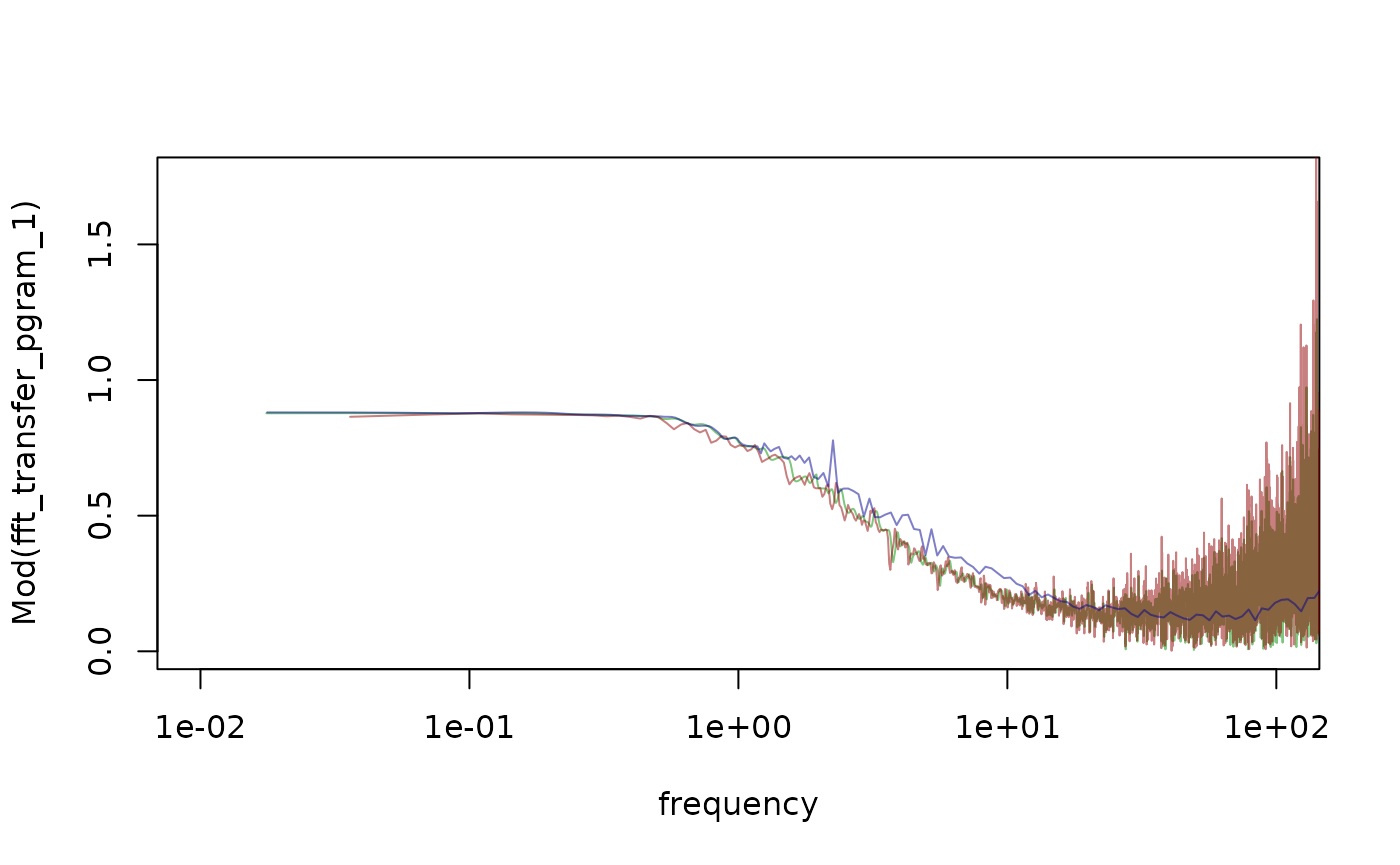
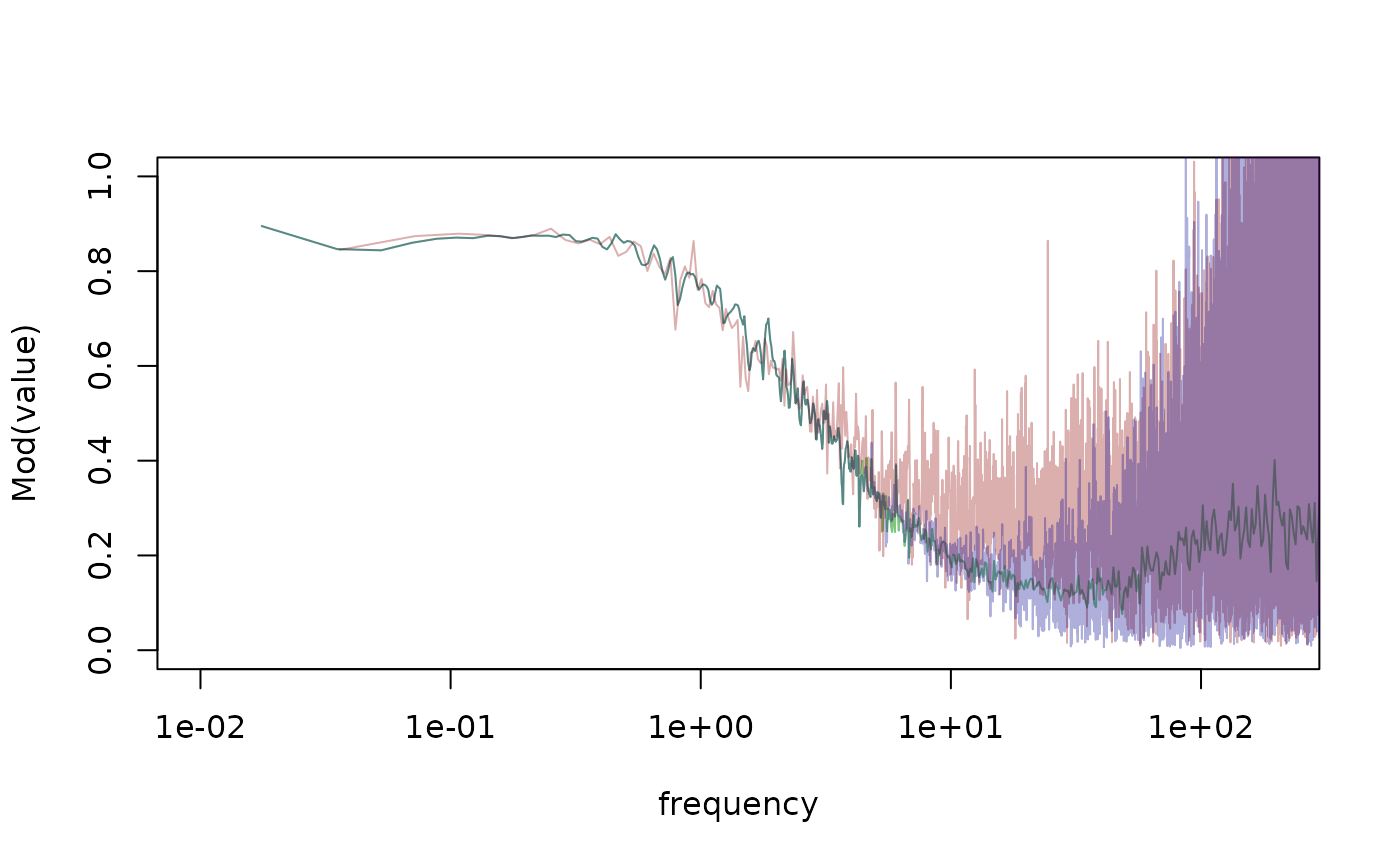
update barometric pressure vignette

diff --git a/docs/articles/barometric_pressure.html b/docs/articles/barometric_pressure.html
@@ -93,13 +93,13 @@
 <span></span>
 <span><span class="co"># The barometric efficiency is stored in the step (warning: this may change)</span></span>
 <span><span class="va">clarks</span><span class="op">$</span><span class="fu">get_step_data</span><span class="op">(</span><span class="st">"barometric_efficiency"</span><span class="op">)</span></span>
-<span><span class="co">#&gt; $baro_clark_UUEdL</span></span>
+<span><span class="co">#&gt; [[1]]</span></span>
 <span><span class="co">#&gt; [1] 0.1941766</span></span>
 <span><span class="co">#&gt; </span></span>
-<span><span class="co">#&gt; $baro_clark_ieexo</span></span>
+<span><span class="co">#&gt; [[2]]</span></span>
 <span><span class="co">#&gt; [1] 0.4738098</span></span>
 <span><span class="co">#&gt; </span></span>
-<span><span class="co">#&gt; $baro_clark_mb92Q</span></span>
+<span><span class="co">#&gt; [[3]]</span></span>
 <span><span class="co">#&gt; [1] 0.8453437</span></span></code></pre></div>
 <div class="sourceCode" id="cb3"><pre class="downlit sourceCode r">
 <code class="sourceCode R"><span><span class="va">least_squares</span> <span class="op">&lt;-</span> <span class="fu"><a href="../reference/recipe.html">recipe</a></span><span class="op">(</span><span class="va">wl</span><span class="op">~</span><span class="va">.</span>, <span class="va">kennel_2020</span><span class="op">)</span> <span class="op">|&gt;</span></span>
@@ -111,10 +111,10 @@
 <span>  <span class="fu"><a href="../reference/bake.html">bake</a></span><span class="op">(</span><span class="op">)</span></span>
 <span></span>
 <span><span class="va">least_squares</span><span class="op">$</span><span class="fu">get_step_data</span><span class="op">(</span><span class="st">"barometric_efficiency"</span><span class="op">)</span></span>
-<span><span class="co">#&gt; $baro_least_squares_8HfdV</span></span>
+<span><span class="co">#&gt; [[1]]</span></span>
 <span><span class="co">#&gt; [1] 0.8273019</span></span>
 <span><span class="co">#&gt; </span></span>
-<span><span class="co">#&gt; $baro_least_squares_HIyvQ</span></span>
+<span><span class="co">#&gt; [[2]]</span></span>
 <span><span class="co">#&gt; [1] 0.8410913</span></span></code></pre></div>
 </div>
 <div class="section level4">
@@ -149,7 +149,7 @@
 <span>     <span class="op">)</span></span>
 <span><span class="fu"><a href="https://rdrr.io/r/graphics/points.html" class="external-link">points</a></span><span class="op">(</span><span class="va">value</span><span class="op">~</span><span class="va">x</span>, <span class="va">resp_dl</span><span class="op">[</span><span class="va">resp_dl</span><span class="op">$</span><span class="va">term</span> <span class="op">==</span> <span class="st">"distributed_lag_interpolated"</span> <span class="op">&amp;</span> <span class="va">resp_dl</span><span class="op">$</span><span class="va">variable</span> <span class="op">==</span> <span class="st">"cumulative"</span>, <span class="op">]</span>,</span>
 <span>       type <span class="op">=</span> <span class="st">"l"</span>, col <span class="op">=</span> <span class="st">"red"</span><span class="op">)</span></span></code></pre></div>
-<p><img src="barometric_pressure_files/figure-html/distlag-1.png" width="700"></p>
+<p><img src="barometric_pressure_files/figure-html/distlag-1.png" alt="Barometric response functions with standard leading and lagging method compared to the distributed lag method.  Both methods are generally the same but the distributed lag method is smoother." width="700"></p>
 </div>
 </div>
 <div class="section level3">
@@ -171,17 +171,17 @@ conditions).</p>
 <span>  <span class="fu"><a href="../reference/bake.html">bake</a></span><span class="op">(</span><span class="op">)</span></span>
 <span></span>
 <span><span class="va">harmonic</span><span class="op">$</span><span class="fu">get_step_data</span><span class="op">(</span><span class="st">"barometric_efficiency"</span><span class="op">)</span></span>
-<span><span class="co">#&gt; $baro_harmonic_l1OPb</span></span>
-<span><span class="co">#&gt; $baro_harmonic_l1OPb$ratio</span></span>
+<span><span class="co">#&gt; [[1]]</span></span>
+<span><span class="co">#&gt; [[1]]$ratio</span></span>
 <span><span class="co">#&gt; [1] 0.5725228</span></span>
 <span><span class="co">#&gt; </span></span>
-<span><span class="co">#&gt; $baro_harmonic_l1OPb$acworth</span></span>
+<span><span class="co">#&gt; [[1]]$acworth</span></span>
 <span><span class="co">#&gt; [1] 0.5940213</span></span>
 <span><span class="co">#&gt; </span></span>
-<span><span class="co">#&gt; $baro_harmonic_l1OPb$rau</span></span>
+<span><span class="co">#&gt; [[1]]$rau</span></span>
 <span><span class="co">#&gt; [1] 0.6108032</span></span>
 <span><span class="co">#&gt; </span></span>
-<span><span class="co">#&gt; $baro_harmonic_l1OPb$tf</span></span>
+<span><span class="co">#&gt; [[1]]$tf</span></span>
 <span><span class="co">#&gt; [1] 0.5844761</span></span></code></pre></div>
 </div>
 <div class="section level4">
@@ -210,105 +210,61 @@ conditions).</p>
 </ul>
 <div class="sourceCode" id="cb7"><pre class="downlit sourceCode r">
 <code class="sourceCode R"><span></span>
-<span><span class="va">form</span> <span class="op">&lt;-</span> <span class="fu"><a href="https://rdrr.io/r/stats/formula.html" class="external-link">as.formula</a></span><span class="op">(</span><span class="st">"wl~."</span><span class="op">)</span></span>
+<span><span class="fu"><a href="https://rdrr.io/r/utils/data.html" class="external-link">data</a></span><span class="op">(</span><span class="va">kennel_2020</span><span class="op">)</span></span>
+<span><span class="va">formula</span> <span class="op">&lt;-</span> <span class="fu"><a href="https://rdrr.io/r/stats/formula.html" class="external-link">as.formula</a></span><span class="op">(</span><span class="va">datetime</span><span class="op">~</span><span class="va">baro</span><span class="op">+</span><span class="va">wl</span><span class="op">+</span><span class="va">et</span><span class="op">)</span></span>
+<span><span class="va">formula_1</span> <span class="op">&lt;-</span> <span class="fu"><a href="https://rdrr.io/r/stats/formula.html" class="external-link">as.formula</a></span><span class="op">(</span><span class="va">wl</span><span class="op">~</span><span class="va">baro</span> <span class="op">+</span> <span class="va">et</span><span class="op">)</span></span>
 <span></span>
-<span><span class="va">pgram</span> <span class="op">&lt;-</span> <span class="fu"><a href="../reference/recipe.html">recipe</a></span><span class="op">(</span><span class="va">form</span>, <span class="va">kennel_2020</span><span class="op">)</span> <span class="op">|&gt;</span></span>
-<span>  <span class="fu"><a href="../reference/step_fft_transfer_pgram.html">step_fft_transfer_pgram</a></span><span class="op">(</span><span class="fu"><a href="https://rdrr.io/r/base/c.html" class="external-link">c</a></span><span class="op">(</span><span class="va">wl</span>, <span class="va">baro</span>, <span class="va">et</span><span class="op">)</span>, spans <span class="op">=</span> <span class="fu"><a href="https://rdrr.io/r/base/c.html" class="external-link">c</a></span><span class="op">(</span><span class="fl">3</span>, <span class="fl">5</span>, <span class="fl">7</span><span class="op">)</span>, taper <span class="op">=</span> <span class="fl">0.4</span>,</span>
-<span>                          time_step <span class="op">=</span> <span class="fl">60</span><span class="op">)</span> <span class="op">|&gt;</span></span>
-<span>  <span class="fu"><a href="../reference/prep.html">prep</a></span><span class="op">(</span><span class="op">)</span> <span class="op">|&gt;</span></span>
-<span>  <span class="fu"><a href="../reference/bake.html">bake</a></span><span class="op">(</span><span class="op">)</span></span>
-<span></span>
-<span><span class="va">pg</span> <span class="op">&lt;-</span> <span class="fu"><a href="https://rdrr.io/r/base/as.data.frame.html" class="external-link">as.data.frame</a></span><span class="op">(</span><span class="va">pgram</span><span class="op">$</span><span class="fu">get_step_data</span><span class="op">(</span><span class="st">"fft_result"</span><span class="op">)</span><span class="op">[[</span><span class="fl">1</span><span class="op">]</span><span class="op">]</span><span class="op">)</span></span>
-<span></span>
-<span></span>
-<span></span>
-<span><span class="va">welch</span> <span class="op">&lt;-</span> <span class="fu"><a href="../reference/recipe.html">recipe</a></span><span class="op">(</span><span class="va">form</span>, <span class="va">kennel_2020</span><span class="op">)</span> <span class="op">|&gt;</span></span>
-<span>  <span class="fu"><a href="../reference/step_fft_transfer_welch.html">step_fft_transfer_welch</a></span><span class="op">(</span><span class="fu"><a href="https://rdrr.io/r/base/c.html" class="external-link">c</a></span><span class="op">(</span><span class="va">wl</span>, <span class="va">baro</span>, <span class="va">et</span><span class="op">)</span>,</span>
+<span><span class="va">pg</span> <span class="op">=</span> <span class="fu"><a href="../reference/recipe.html">recipe</a></span><span class="op">(</span>formula <span class="op">=</span> <span class="va">formula</span>, data <span class="op">=</span> <span class="va">kennel_2020</span><span class="op">)</span> <span class="op">|&gt;</span></span>
+<span>  <span class="fu"><a href="../reference/step_fft_transfer_welch.html">step_fft_transfer_welch</a></span><span class="op">(</span>formula <span class="op">=</span> <span class="va">formula_1</span>, </span>
 <span>                          length_subset <span class="op">=</span> <span class="fl">40000</span>,</span>
-<span>                          overlap <span class="op">=</span> <span class="fl">0.97</span>,</span>
-<span>                          window <span class="op">=</span> <span class="fu">window_nuttall</span><span class="op">(</span><span class="fl">40000</span><span class="op">)</span>, </span>
+<span>                          window <span class="op">=</span> <span class="fu">hydrorecipes</span><span class="fu">:::</span><span class="fu">window_rectangle</span><span class="op">(</span><span class="fl">40000</span><span class="op">)</span>,</span>
 <span>                          time_step <span class="op">=</span> <span class="fl">60</span><span class="op">)</span> <span class="op">|&gt;</span></span>
-<span>  <span class="fu"><a href="../reference/prep.html">prep</a></span><span class="op">(</span><span class="op">)</span> <span class="op">|&gt;</span></span>
+<span>  <span class="fu"><a href="../reference/step_fft_transfer_pgram.html">step_fft_transfer_pgram</a></span><span class="op">(</span>formula <span class="op">=</span> <span class="va">formula_1</span>, </span>
+<span>                          spans <span class="op">=</span> <span class="fu"><a href="https://rdrr.io/r/base/c.html" class="external-link">c</a></span><span class="op">(</span><span class="fl">3</span>, <span class="fl">3</span><span class="op">)</span>, </span>
+<span>                          time_step <span class="op">=</span> <span class="fl">60</span><span class="op">)</span> <span class="op">|&gt;</span></span>
+<span>  <span class="fu"><a href="../reference/step_fft_transfer_experimental.html">step_fft_transfer_experimental</a></span><span class="op">(</span>formula <span class="op">=</span> <span class="va">formula_1</span>, </span>
+<span>                                 n_groups <span class="op">=</span> <span class="fl">600</span>,</span>
+<span>                                 spans <span class="op">=</span> <span class="fu"><a href="https://rdrr.io/r/base/c.html" class="external-link">c</a></span><span class="op">(</span><span class="fl">3</span>, <span class="fl">3</span><span class="op">)</span>, </span>
+<span>                                 time_step <span class="op">=</span> <span class="fl">60</span><span class="op">)</span> <span class="op">|&gt;</span></span>
+<span>  <span class="fu"><a href="../reference/prep.html">prep</a></span><span class="op">(</span><span class="st">"df"</span><span class="op">)</span> <span class="op">|&gt;</span></span>
 <span>  <span class="fu"><a href="../reference/bake.html">bake</a></span><span class="op">(</span><span class="op">)</span></span>
 <span></span>
-<span><span class="va">we</span> <span class="op">&lt;-</span> <span class="fu"><a href="https://rdrr.io/r/base/as.data.frame.html" class="external-link">as.data.frame</a></span><span class="op">(</span><span class="va">welch</span><span class="op">$</span><span class="fu">get_step_data</span><span class="op">(</span><span class="st">"fft_result"</span><span class="op">)</span><span class="op">[[</span><span class="fl">1</span><span class="op">]</span><span class="op">]</span><span class="op">)</span></span>
+<span><span class="va">pg</span><span class="op">$</span><span class="fu">get_elapsed_times</span><span class="op">(</span><span class="op">)</span></span>
+<span><span class="co">#&gt;                           step_id    time_prep    time_bake</span></span>
+<span><span class="co">#&gt; 1                  add_vars_LGGmr 4.744530e-05 0.0000140667</span></span>
+<span><span class="co">#&gt; 2        fft_transfer_welch_Fe2kG 3.314018e-05 0.0158770084</span></span>
+<span><span class="co">#&gt; 3        fft_transfer_pgram_JgwxH 1.668930e-05 0.0110201836</span></span>
+<span><span class="co">#&gt; 4 fft_transfer_experimental_hiYO6 1.549721e-05 0.0238265991</span></span>
+<span><span class="va">tf</span> <span class="op">&lt;-</span> <span class="va">pg</span><span class="op">$</span><span class="fu">get_transfer_data</span><span class="op">(</span>type <span class="op">=</span> <span class="st">"dt"</span><span class="op">)</span></span>
 <span></span>
-<span><span class="va">form</span> <span class="op">&lt;-</span> <span class="fu"><a href="https://rdrr.io/r/stats/formula.html" class="external-link">as.formula</a></span><span class="op">(</span><span class="st">"wl~."</span><span class="op">)</span></span>
-<span></span>
-<span><span class="va">pgram_experimental</span> <span class="op">&lt;-</span> <span class="fu"><a href="../reference/recipe.html">recipe</a></span><span class="op">(</span><span class="va">form</span>, <span class="va">kennel_2020</span><span class="op">)</span> <span class="op">|&gt;</span></span>
-<span>  <span class="fu"><a href="../reference/step_fft_transfer_experimental.html">step_fft_transfer_experimental</a></span><span class="op">(</span><span class="fu"><a href="https://rdrr.io/r/base/c.html" class="external-link">c</a></span><span class="op">(</span><span class="va">wl</span>, <span class="va">baro</span>, <span class="va">et</span><span class="op">)</span>, </span>
-<span>                                 spans <span class="op">=</span> <span class="fu"><a href="https://rdrr.io/r/base/c.html" class="external-link">c</a></span><span class="op">(</span><span class="fl">3</span>, <span class="fl">5</span>, <span class="fl">7</span><span class="op">)</span>, </span>
-<span>                                 taper <span class="op">=</span> <span class="fl">0.45</span>,</span>
-<span>                                 <span class="co"># power = 3,</span></span>
-<span>                                 n_groups <span class="op">=</span> <span class="fl">201</span>,</span>
-<span>                          time_step <span class="op">=</span> <span class="fl">60</span><span class="op">)</span> <span class="op">|&gt;</span></span>
-<span>  <span class="fu"><a href="../reference/prep.html">prep</a></span><span class="op">(</span><span class="op">)</span> <span class="op">|&gt;</span></span>
-<span>  <span class="fu"><a href="../reference/bake.html">bake</a></span><span class="op">(</span><span class="op">)</span></span>
-<span></span>
-<span><span class="va">experimental</span> <span class="op">&lt;-</span> <span class="fu"><a href="https://rdrr.io/r/base/as.data.frame.html" class="external-link">as.data.frame</a></span><span class="op">(</span><span class="va">pgram_experimental</span><span class="op">$</span><span class="fu">get_step_data</span><span class="op">(</span><span class="st">"fft_result"</span><span class="op">)</span><span class="op">[[</span><span class="fl">1</span><span class="op">]</span><span class="op">]</span><span class="op">)</span></span>
-<span></span>
-<span></span>
-<span><span class="fu"><a href="https://rdrr.io/r/graphics/plot.default.html" class="external-link">plot</a></span><span class="op">(</span><span class="fu"><a href="https://rdrr.io/r/base/complex.html" class="external-link">Mod</a></span><span class="op">(</span><span class="va">fft_transfer_pgram_1</span><span class="op">)</span><span class="op">~</span><span class="va">frequency</span>, <span class="va">pg</span>, type <span class="op">=</span> <span class="st">"l"</span>, log <span class="op">=</span> <span class="st">"x"</span>, xlim <span class="op">=</span> <span class="fu"><a href="https://rdrr.io/r/base/c.html" class="external-link">c</a></span><span class="op">(</span><span class="fl">0.01</span>, <span class="fl">100</span><span class="op">)</span>,</span>
+<span><span class="fu"><a href="https://rdrr.io/r/graphics/plot.default.html" class="external-link">plot</a></span><span class="op">(</span><span class="fu"><a href="https://rdrr.io/r/base/complex.html" class="external-link">Mod</a></span><span class="op">(</span><span class="va">value</span><span class="op">)</span><span class="op">~</span><span class="va">frequency</span>, </span>
+<span>     data <span class="op">=</span> <span class="va">tf</span><span class="op">[</span><span class="fu"><a href="https://rdrr.io/r/base/grep.html" class="external-link">grepl</a></span><span class="op">(</span><span class="st">"fft_transfer_experimental"</span>, <span class="va">id</span><span class="op">)</span> <span class="op">&amp;</span> <span class="va">variable</span> <span class="op">==</span> <span class="st">"wl_baro_et_1"</span><span class="op">]</span>, </span>
+<span>     type <span class="op">=</span> <span class="st">"l"</span>, </span>
+<span>     log <span class="op">=</span> <span class="st">"x"</span>, </span>
+<span>     xlim <span class="op">=</span> <span class="fu"><a href="https://rdrr.io/r/base/c.html" class="external-link">c</a></span><span class="op">(</span><span class="fl">0.01</span>, <span class="fl">200</span><span class="op">)</span>,</span>
+<span>     ylim <span class="op">=</span> <span class="fu"><a href="https://rdrr.io/r/base/c.html" class="external-link">c</a></span><span class="op">(</span><span class="fl">0</span>, <span class="fl">1</span><span class="op">)</span>,</span>
 <span>     col <span class="op">=</span> <span class="st">"#00900080"</span><span class="op">)</span></span>
 <span><span class="co">#&gt; Warning in xy.coords(x, y, xlabel, ylabel, log): 1 x value &lt;= 0 omitted from</span></span>
 <span><span class="co">#&gt; logarithmic plot</span></span>
-<span><span class="fu"><a href="https://rdrr.io/r/graphics/points.html" class="external-link">points</a></span><span class="op">(</span><span class="fu"><a href="https://rdrr.io/r/base/complex.html" class="external-link">Mod</a></span><span class="op">(</span><span class="va">transfer_welch_1</span><span class="op">)</span><span class="op">~</span><span class="va">frequency</span>, <span class="va">we</span>, type <span class="op">=</span> <span class="st">"l"</span>,</span>
-<span>       col <span class="op">=</span> <span class="st">"#90000080"</span><span class="op">)</span></span>
-<span><span class="fu"><a href="https://rdrr.io/r/graphics/points.html" class="external-link">points</a></span><span class="op">(</span><span class="fu"><a href="https://rdrr.io/r/base/complex.html" class="external-link">Mod</a></span><span class="op">(</span><span class="va">fft_transfer_experimental_1</span><span class="op">)</span><span class="op">~</span><span class="va">frequency</span>, <span class="va">experimental</span>, type <span class="op">=</span> <span class="st">"l"</span>, </span>
-<span>       col <span class="op">=</span> <span class="st">"#00009080"</span><span class="op">)</span></span></code></pre></div>
-<p><img src="barometric_pressure_files/figure-html/tf-1.png" width="700"></p>
-<div class="sourceCode" id="cb8"><pre class="downlit sourceCode r">
-<code class="sourceCode R"><span></span>
-<span><span class="fu">hydrorecipes</span><span class="fu">:::</span><span class="fu">group_frequency</span><span class="op">(</span><span class="va">we</span><span class="op">$</span><span class="va">frequency</span>, <span class="fl">201</span><span class="op">)</span></span>
-<span><span class="co">#&gt;   [1]    0.000    0.036    0.072    0.108    0.144    0.180    0.216    0.252</span></span>
-<span><span class="co">#&gt;   [9]    0.288    0.324    0.360    0.396    0.432    0.468    0.504    0.540</span></span>
-<span><span class="co">#&gt;  [17]    0.576    0.612    0.648    0.684    0.720    0.756    0.792    0.828</span></span>
-<span><span class="co">#&gt;  [25]    0.864    0.900    0.936    0.972    1.008    1.044    1.080    1.116</span></span>
-<span><span class="co">#&gt;  [33]    1.152    1.188    1.224    1.260    1.296    1.332    1.368    1.404</span></span>
-<span><span class="co">#&gt;  [41]    1.440    1.476    1.512    1.548    1.584    1.620    1.656    1.692</span></span>
-<span><span class="co">#&gt;  [49]    1.728    1.764    1.800    1.836    1.872    1.908    1.944    1.980</span></span>
-<span><span class="co">#&gt;  [57]    2.016    2.052    2.088    2.124    2.160    2.196    2.250    2.322</span></span>
-<span><span class="co">#&gt;  [65]    2.394    2.466    2.538    2.610    2.682    2.754    2.826    2.898</span></span>
-<span><span class="co">#&gt;  [73]    2.970    3.060    3.168    3.276    3.384    3.492    3.600    3.726</span></span>
-<span><span class="co">#&gt;  [81]    3.870    4.014    4.158    4.302    4.464    4.644    4.824    5.022</span></span>
-<span><span class="co">#&gt;  [89]    5.238    5.454    5.670    5.904    6.156    6.408    6.678    6.984</span></span>
-<span><span class="co">#&gt;  [97]    7.308    7.632    7.974    8.334    8.712    9.108    9.522    9.972</span></span>
-<span><span class="co">#&gt; [105]   10.458   10.962   11.484   12.042   12.618   13.230   13.878   14.562</span></span>
-<span><span class="co">#&gt; [113]   15.282   16.038   16.848   17.694   18.576   19.512   20.502   21.546</span></span>
-<span><span class="co">#&gt; [121]   22.644   23.814   25.038   26.316   27.684   29.124   30.636   32.238</span></span>
-<span><span class="co">#&gt; [129]   33.930   35.694   37.566   39.546   41.616   43.812   46.134   48.564</span></span>
-<span><span class="co">#&gt; [137]   51.120   53.838   56.700   59.706   62.892   66.240   69.768   73.494</span></span>
-<span><span class="co">#&gt; [145]   77.418   81.558   85.932   90.540   95.382  100.494  105.894  111.600</span></span>
-<span><span class="co">#&gt; [153]  117.612  123.930  130.590  137.628  145.044  152.856  161.118  169.812</span></span>
-<span><span class="co">#&gt; [161]  178.974  188.658  198.828  209.538  220.842  232.758  245.322  258.570</span></span>
-<span><span class="co">#&gt; [169]  272.538  287.262  302.796  319.176  336.456  354.690  373.914  394.164</span></span>
-<span><span class="co">#&gt; [177]  415.530  438.066  461.826  486.882  513.288  541.152  570.528  601.488</span></span>
-<span><span class="co">#&gt; [185]  634.158  668.610  704.934  743.238  783.612  826.182  871.074  918.414</span></span>
-<span><span class="co">#&gt; [193]  968.346 1020.996 1076.508 1135.044 1196.766 1261.836 1330.452 1402.812</span></span>
-<span><span class="co">#&gt; [201] 1439.964</span></span>
-<span></span>
-<span><span class="fu"><a href="https://rdrr.io/r/graphics/plot.default.html" class="external-link">plot</a></span><span class="op">(</span><span class="fu"><a href="https://rdrr.io/r/base/complex.html" class="external-link">Mod</a></span><span class="op">(</span><span class="va">fft_transfer_experimental_1</span><span class="op">)</span><span class="op">~</span><span class="va">frequency</span>, <span class="va">experimental</span>, type <span class="op">=</span> <span class="st">"l"</span>, </span>
-<span>       col <span class="op">=</span> <span class="st">"#00009080"</span>, log <span class="op">=</span> <span class="st">'x'</span><span class="op">)</span></span>
-<span><span class="co">#&gt; Warning in xy.coords(x, y, xlabel, ylabel, log): 1 x value &lt;= 0 omitted from</span></span>
-<span><span class="co">#&gt; logarithmic plot</span></span></code></pre></div>
-<p><img src="barometric_pressure_files/figure-html/tf-2.png" width="700"></p>
-<div class="sourceCode" id="cb9"><pre class="downlit sourceCode r">
-<code class="sourceCode R"><span></span>
-<span><span class="fu"><a href="https://rdrr.io/r/graphics/plot.default.html" class="external-link">plot</a></span><span class="op">(</span><span class="fu"><a href="https://rdrr.io/r/base/complex.html" class="external-link">Arg</a></span><span class="op">(</span><span class="va">fft_transfer_experimental_1</span><span class="op">)</span><span class="op">~</span><span class="va">frequency</span>, <span class="va">experimental</span>, type <span class="op">=</span> <span class="st">"l"</span>, </span>
-<span>       col <span class="op">=</span> <span class="st">"#00009080"</span>, log <span class="op">=</span> <span class="st">'x'</span><span class="op">)</span></span>
-<span><span class="co">#&gt; Warning in xy.coords(x, y, xlabel, ylabel, log): 1 x value &lt;= 0 omitted from</span></span>
-<span><span class="co">#&gt; logarithmic plot</span></span></code></pre></div>
-<p><img src="barometric_pressure_files/figure-html/tf-3.png" width="700"></p>
+<span><span class="fu"><a href="https://rdrr.io/r/graphics/points.html" class="external-link">points</a></span><span class="op">(</span><span class="fu"><a href="https://rdrr.io/r/base/complex.html" class="external-link">Mod</a></span><span class="op">(</span><span class="va">value</span><span class="op">)</span><span class="op">~</span><span class="va">frequency</span>, </span>
+<span>       data <span class="op">=</span> <span class="va">tf</span><span class="op">[</span><span class="fu"><a href="https://rdrr.io/r/base/grep.html" class="external-link">grepl</a></span><span class="op">(</span><span class="st">"fft_transfer_welch"</span>, <span class="va">id</span><span class="op">)</span> <span class="op">&amp;</span> <span class="va">variable</span> <span class="op">==</span> <span class="st">"wl_baro_et_1"</span><span class="op">]</span>, </span>
+<span>       type <span class="op">=</span> <span class="st">"l"</span>,</span>
+<span>       col <span class="op">=</span> <span class="st">"#90000050"</span><span class="op">)</span></span>
+<span><span class="fu"><a href="https://rdrr.io/r/graphics/points.html" class="external-link">points</a></span><span class="op">(</span><span class="fu"><a href="https://rdrr.io/r/base/complex.html" class="external-link">Mod</a></span><span class="op">(</span><span class="va">value</span><span class="op">)</span><span class="op">~</span><span class="va">frequency</span>, </span>
+<span>       <span class="va">tf</span><span class="op">[</span><span class="fu"><a href="https://rdrr.io/r/base/grep.html" class="external-link">grepl</a></span><span class="op">(</span><span class="st">"fft_transfer_pgram"</span>, <span class="va">id</span><span class="op">)</span> <span class="op">&amp;</span> <span class="va">variable</span> <span class="op">==</span> <span class="st">"wl_baro_et_1"</span><span class="op">]</span>,</span>
+<span>       type <span class="op">=</span> <span class="st">"l"</span>, </span>
+<span>       col <span class="op">=</span> <span class="st">"#00009050"</span><span class="op">)</span></span></code></pre></div>
+<p><img src="barometric_pressure_files/figure-html/tf-1.png" alt="Transfer functions." width="700"></p>
 </div>
 </div>
 <div class="section level3">
 <h3 id="references">References<a class="anchor" aria-label="anchor" href="#references"></a>
 </h3>
-<div class="sourceCode" id="cb10"><pre class="downlit sourceCode r">
+<div class="sourceCode" id="cb8"><pre class="downlit sourceCode r">
 <code class="sourceCode R"><span><span class="fu"><a href="https://rdrr.io/r/utils/sessionInfo.html" class="external-link">sessionInfo</a></span><span class="op">(</span><span class="op">)</span></span>
 <span><span class="co">#&gt; R version 4.4.1 (2024-06-14)</span></span>
 <span><span class="co">#&gt; Platform: x86_64-pc-linux-gnu</span></span>
-<span><span class="co">#&gt; Running under: Ubuntu 22.04.4 LTS</span></span>
+<span><span class="co">#&gt; Running under: Ubuntu 22.04.5 LTS</span></span>
 <span><span class="co">#&gt; </span></span>
 <span><span class="co">#&gt; Matrix products: default</span></span>
 <span><span class="co">#&gt; BLAS:   /usr/lib/x86_64-linux-gnu/atlas/libblas.so.3.10.3 </span></span>
@@ -331,7 +287,7 @@ conditions).</p>
 <span><span class="co">#&gt; </span></span>
 <span><span class="co">#&gt; loaded via a namespace (and not attached):</span></span>
 <span><span class="co">#&gt;  [1] cli_3.6.3         knitr_1.48        rlang_1.1.4       xfun_0.46        </span></span>
-<span><span class="co">#&gt;  [5] highr_0.11        textshaping_0.4.0 data.table_1.15.4 jsonlite_1.8.8   </span></span>
+<span><span class="co">#&gt;  [5] highr_0.11        textshaping_0.4.0 data.table_1.16.0 jsonlite_1.8.8   </span></span>
 <span><span class="co">#&gt;  [9] htmltools_0.5.8.1 earthtide_0.1.6   ragg_1.3.2        sass_0.4.9       </span></span>
 <span><span class="co">#&gt; [13] gmp_0.7-4         rmarkdown_2.27    evaluate_0.24.0   jquerylib_0.1.4  </span></span>
 <span><span class="co">#&gt; [17] fastmap_1.2.0     yaml_2.3.9        lifecycle_1.0.4   compiler_4.4.1   </span></span>

diff --git a/src/fft.cpp b/src/fft.cpp
@@ -1787,7 +1787,7 @@ Eigen::MatrixXcd transfer_pgram_smooth(Eigen::MatrixXd& x,
   //   min_aggregate = 3;
   // }
 
-  Eigen::MatrixXcd pgram = spec_pgram(x, spans, detrend, demean, taper, false);
+  Eigen::MatrixXcd pgram = spec_pgram(x, spans, detrend, demean, taper);
   Eigen::MatrixXcd out   = solve_cplx_irr(pgram, n_groups);
 
   return(out);
@@ -1803,7 +1803,7 @@ Eigen::MatrixXcd transfer_pgram(Eigen::MatrixXd& x,
                                 bool demean,
                                 double taper) {
 
-  Eigen::MatrixXcd pgram = spec_pgram(x, spans, detrend, demean, taper, false);
+  Eigen::MatrixXcd pgram = spec_pgram(x, spans, detrend, demean, taper);
   Eigen::MatrixXcd out   = solve_cplx_parallel(pgram);
   return(out);
 }
